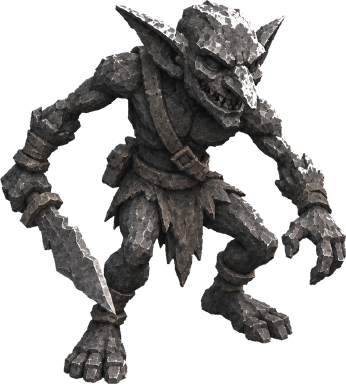
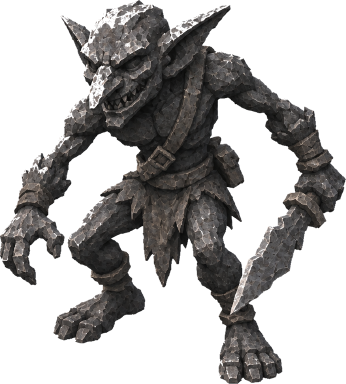
Art: mirror the goblins on import so they face down-left like the other enemies

diff --git a/Assets/Editor/ArtExperiment.cs b/Assets/Editor/ArtExperiment.cs
@@ -501,6 +501,11 @@ public static class ArtExperiment
             if (!Enum.TryParse<UnitKind>(unit, true, out var kind))
                 continue;
             var (_, tex, pivot, ppu) = CutOutFigure(Path.GetFileName(file), unit + "_figure", FigureHeight(kind));
+            if (DrawnFacingRight.Contains(kind))
+            {
+                tex = Mirrored(tex);
+                pivot.x = 1f - pivot.x;
+            }
             SaveSprite(StatueFolder + kind + "_figure.png", tex, pivot, ppu);
             Debug.Log($"Imported statue {kind} (no ground) from {file}");
         }
@@ -539,6 +544,23 @@ public static class ArtExperiment
     };
 
     private static float FigureHeight(UnitKind kind) => FigureHeights.TryGetValue(kind, out var h) ? h : DefaultFigureHeight;
+
+    // Enemies drawn facing down-right; they are mirrored on import so they face down-left, towards the camera.
+    private static readonly HashSet<UnitKind> DrawnFacingRight = new HashSet<UnitKind> { UnitKind.Goblin, UnitKind.GoblinBomber };
+
+    private static Texture2D Mirrored(Texture2D tex)
+    {
+        int w = tex.width, h = tex.height;
+        var src = tex.GetPixels();
+        var dst = new Color[src.Length];
+        for (var y = 0; y < h; y++)
+            for (var x = 0; x < w; x++)
+                dst[y * w + x] = src[y * w + (w - 1 - x)];
+        var mirrored = new Texture2D(w, h, TextureFormat.RGBA32, false);
+        mirrored.SetPixels(dst);
+        mirrored.Apply();
+        return mirrored;
+    }
 
     /// <summary>A figure drawn standing on nothing: sized by its height, standing halfway between its feet.</summary>
     private static (string, Texture2D, Vector2, float) CutOutFigure(string file, string name, float height)
